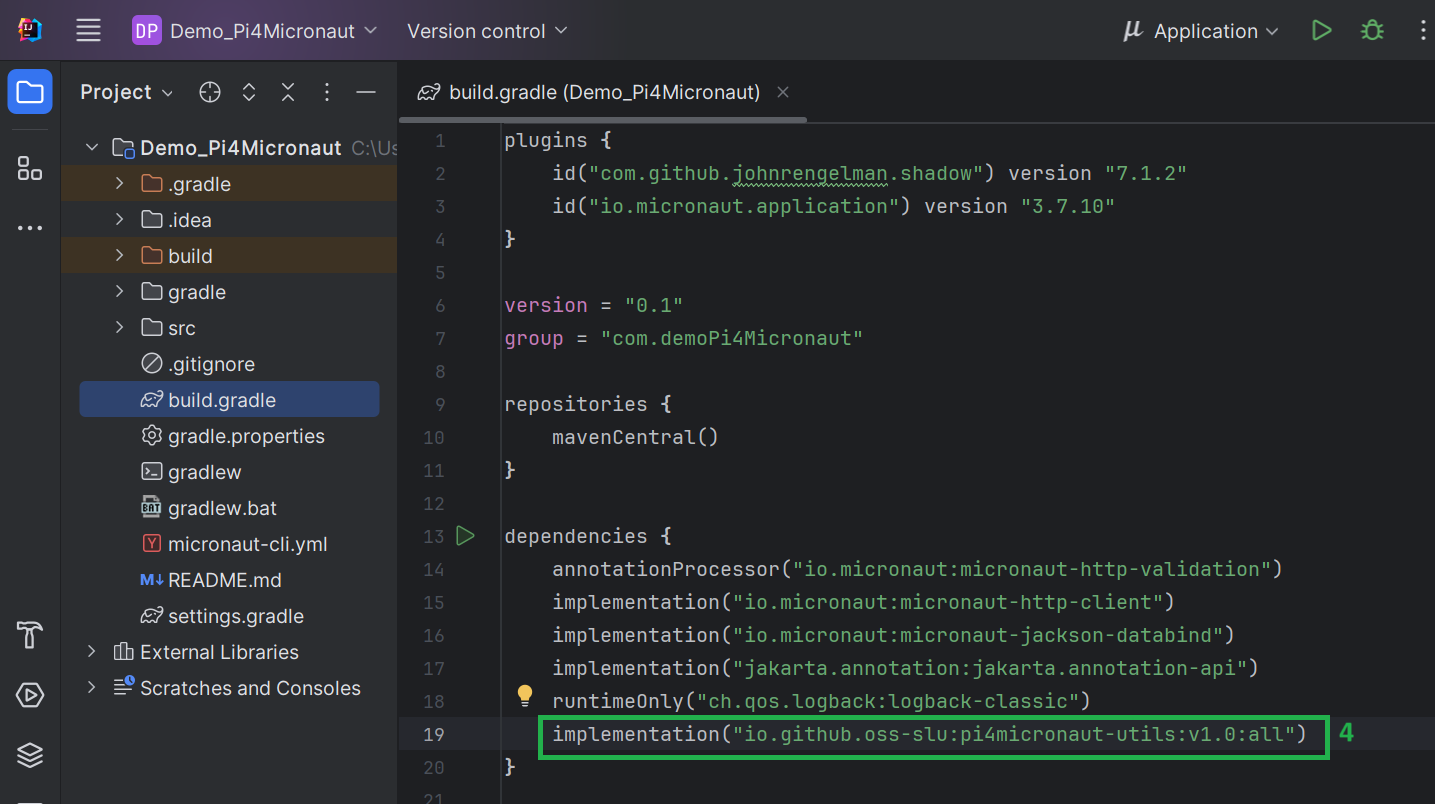
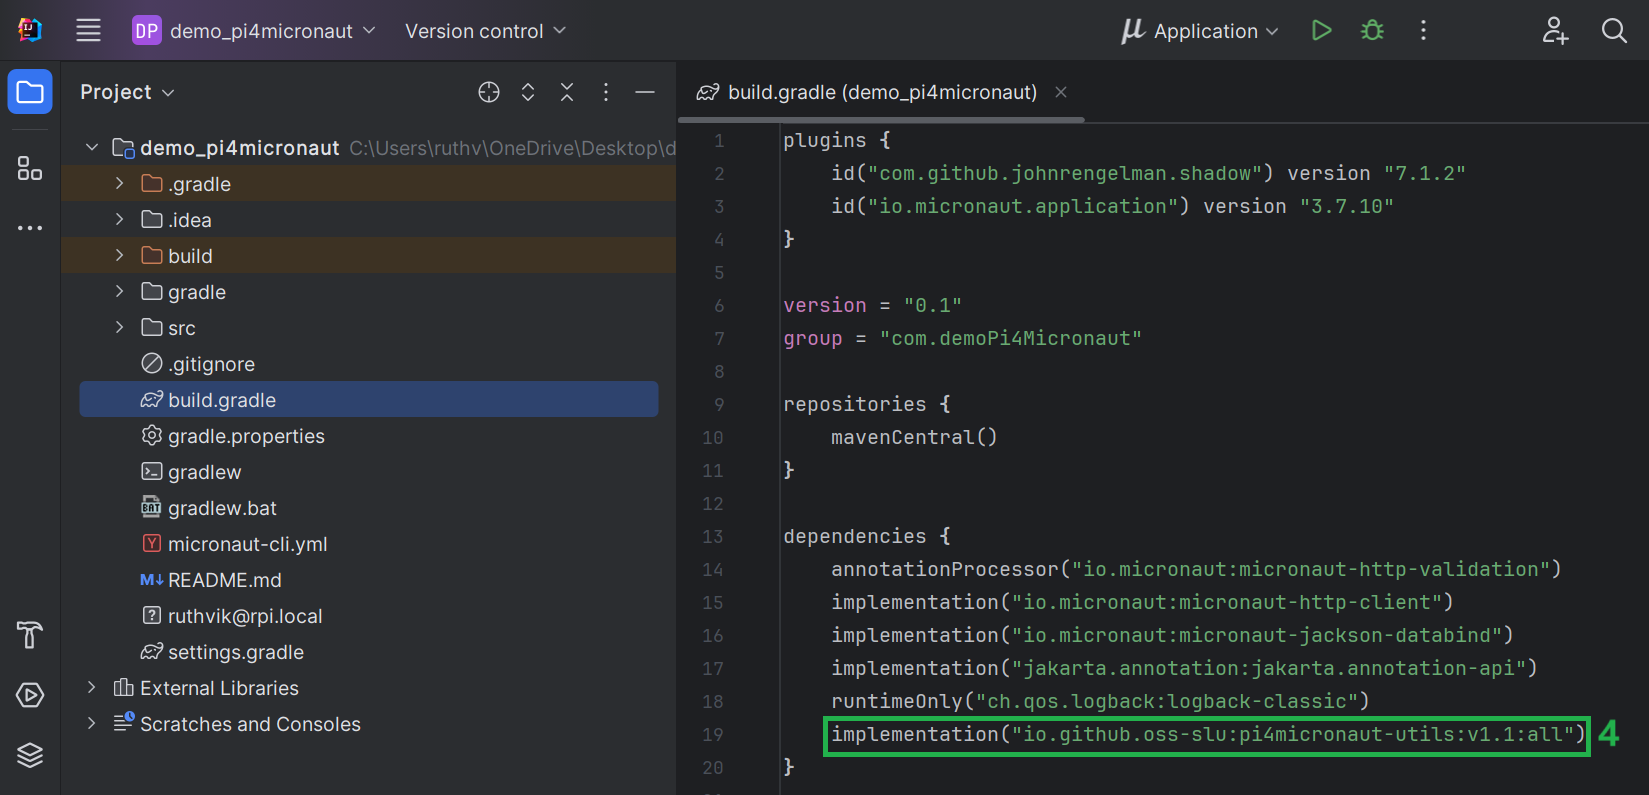
deploy: 390fa0d498738ccb48fc605e589f94afdefc2d82

diff --git a/index.html b/index.html
@@ -418,6 +418,7 @@ pre.rouge .nv, pre.rouge .vc, pre.rouge .vg, pre.rouge .vi, pre.rouge .vm {
 <ul class="sectlevel3">
 <li><a href="#_remote_monitoring_check_in_system">1.3.1. Remote Monitoring Check-In System</a></li>
 <li><a href="#_home_automation">1.3.2. Home Automation</a></li>
+<li><a href="#_lab_automation">1.3.3. Lab Automation</a></li>
 </ul>
 </li>
 </ul>
@@ -432,7 +433,7 @@ pre.rouge .nv, pre.rouge .vc, pre.rouge .vg, pre.rouge .vi, pre.rouge .vm {
 <ul class="sectlevel2">
 <li><a href="#_communicating_with_a_hardware_component">4.1. Communicating with a Hardware Component</a>
 <ul class="sectlevel3">
-<li><a href="#_yaml_configuration_workflow">4.1.1. YAML Configuration Workflow:</a></li>
+<li><a href="#_yaml_configuration_workflow">4.1.1. YAML Configuration Workflow</a></li>
 <li><a href="#_digital_input">4.1.2. Digital Input</a></li>
 <li><a href="#_digital_output">4.1.3. Digital Output</a></li>
 <li><a href="#_multipin_configurations">4.1.4. MultiPin Configurations</a></li>
@@ -492,6 +493,9 @@ pre.rouge .nv, pre.rouge .vc, pre.rouge .vg, pre.rouge .vi, pre.rouge .vm {
 <p>Pi4Micronaut is an Open Source Java library which utilizes the Micronaut Framework and Pi4J to streamline the process of creating custom IoT applications that require hardware connectivity to Raspberry Pi&#8217;s.</p>
 </div>
 <div class="paragraph">
+<p><strong>Note:</strong> Pi4Micronaut doesn&#8217;t work with the latest Raspberry Pi 5 because of its whole new architecture. Pi4J and pigpio libraries doesn&#8217;t provide support for Pi 5 yet. Look out for the latest version of Pi4J to work with Pi5&#8217;s in the future.</p>
+</div>
+<div class="paragraph">
 <p>By reading through our documentation, you will learn how to implement our library into your application.</p>
 </div>
 <div class="sect2">
@@ -535,7 +539,7 @@ with Pi4Micronaut. As a demo, this will include the configuration and sample cod
 <p>Add the Pi4Micronaut dependency to the list.</p>
 <div class="listingblock">
 <div class="content">
-<pre class="rouge highlight"><code data-lang="gradle"><span class="n">implementation</span><span class="o">(</span><span class="s2">"io.github.oss-slu:pi4micronaut-utils:v1.0:all"</span><span class="o">)</span></code></pre>
+<pre class="rouge highlight"><code data-lang="gradle"><span class="n">implementation</span><span class="o">(</span><span class="s2">"io.github.oss-slu:pi4micronaut-utils:v1.1:all"</span><span class="o">)</span></code></pre>
 </div>
 </div>
 <div class="paragraph">
@@ -878,6 +882,12 @@ For more information on the LED setup guide, see our documentation <a href="http
 <p><a href="https://github.com/oss-slu/Pi4Micronaut/tree/Home_Automation" class="bare">https://github.com/oss-slu/Pi4Micronaut/tree/Home_Automation</a></p>
 </div>
 </div>
+<div class="sect3">
+<h4 id="_lab_automation"><a class="anchor" href="#_lab_automation"></a>1.3.3. Lab Automation</h4>
+<div class="paragraph">
+<p><a href="https://github.com/oss-slu/Pi4Micronaut/tree/Lab_Automation" class="bare">https://github.com/oss-slu/Pi4Micronaut/tree/Lab_Automation</a></p>
+</div>
+</div>
 </div>
 </div>
 </div>
@@ -933,6 +943,15 @@ For more information on the LED setup guide, see our documentation <a href="http
 </li>
 <li>
 <p>Ultrasonic Sensor</p>
+</li>
+<li>
+<p>Servo Motor</p>
+</li>
+<li>
+<p>Tilt Switch</p>
+</li>
+<li>
+<p>Micro Switch</p>
 </li>
 </ul>
 </div>
@@ -1256,7 +1275,7 @@ which determines how the circuit is created by utilizing the I2C pins of the GPI
 If a user wants to implement multiple hardware components then the configuration should be defined in the snake yml structure.</p>
 </div>
 <div class="sect3">
-<h4 id="_yaml_configuration_workflow"><a class="anchor" href="#_yaml_configuration_workflow"></a>4.1.1. YAML Configuration Workflow:</h4>
+<h4 id="_yaml_configuration_workflow"><a class="anchor" href="#_yaml_configuration_workflow"></a>4.1.1. YAML Configuration Workflow</h4>
 <div class="ulist">
 <ul>
 <li>
@@ -3463,7 +3482,7 @@ for more details.</p>
 <div class="sect4">
 <h5 id="_overview_9"><a class="anchor" href="#_overview_9"></a>Overview</h5>
 <div class="paragraph">
-<p>This section provides details of a tilt switch sensor implementation, including its circuit diagram,
+<p>This section provides details of a tilt switch implementation, including its circuit diagram,
 required hardware components, assembly instructions, and functionality.</p>
 </div>
 </div>
@@ -3691,7 +3710,7 @@ for more details.</p>
 <div class="sect4">
 <h5 id="_overview_10"><a class="anchor" href="#_overview_10"></a>Overview</h5>
 <div class="paragraph">
-<p>This section provides details of a Micro Switch sensor implementation, including its circuit diagram, schematic diagram,
+<p>This section provides details of a Micro Switch implementation, including its circuit diagram, schematic diagram,
 required hardware components, assembly instructions, and functionality.</p>
 </div>
 </div>
@@ -5553,7 +5572,7 @@ To produce sound, a passive buzzer needs an external PWM signal supplied by Rasp
 <div id="footer">
 <div id="footer-text">
 Version v1.1<br>
-Last updated 2024-05-09 18:23:59 UTC
+Last updated 2024-05-09 19:18:03 UTC
 </div>
 </div>
 </body>

diff --git a/introduction.html b/introduction.html
@@ -221,6 +221,9 @@ th {
 <p>Pi4Micronaut is an Open Source Java library which utilizes the Micronaut Framework and Pi4J to streamline the process of creating custom IoT applications that require hardware connectivity to Raspberry Pi&#8217;s.</p>
 </div>
 <div class="paragraph">
+<p><strong>Note:</strong> Pi4Micronaut doesn&#8217;t work with the latest Raspberry Pi 5 because of its whole new architecture. Pi4J and pigpio libraries doesn&#8217;t provide support for Pi 5 yet. Look out for the latest version of Pi4J to work with Pi5&#8217;s in the future.</p>
+</div>
+<div class="paragraph">
 <p>By reading through our documentation, you will learn how to implement our library into your application.</p>
 </div>
 </div>
@@ -229,7 +232,7 @@ th {
 <div id="footer">
 <div id="footer-text">
 Version v1.1<br>
-Last updated 2024-05-09 18:23:59 UTC
+Last updated 2024-05-09 19:18:03 UTC
 </div>
 </div>
 </body>

diff --git a/Introduction/howToUsePi4Micronaut.html b/Introduction/howToUsePi4Micronaut.html
@@ -249,7 +249,7 @@ with Pi4Micronaut. As a demo, this will include the configuration and sample cod
 <p>Add the Pi4Micronaut dependency to the list.</p>
 <div class="listingblock">
 <div class="content">
-<pre class="highlight"><code class="language-gradle" data-lang="gradle">implementation("io.github.oss-slu:pi4micronaut-utils:v1.0:all")</code></pre>
+<pre class="highlight"><code class="language-gradle" data-lang="gradle">implementation("io.github.oss-slu:pi4micronaut-utils:v1.1:all")</code></pre>
 </div>
 </div>
 <div class="paragraph">
@@ -323,7 +323,7 @@ For more information on the LED setup guide, see our documentation <a href="http
 <div id="footer">
 <div id="footer-text">
 Version v1.1<br>
-Last updated 2024-05-09 18:23:59 UTC
+Last updated 2024-05-09 19:18:03 UTC
 </div>
 </div>
 </body>

diff --git a/components/commun_WithHardware.html b/components/commun_WithHardware.html
@@ -226,7 +226,7 @@ which determines how the circuit is created by utilizing the I2C pins of the GPI
 If a user wants to implement multiple hardware components then the configuration should be defined in the snake yml structure.</p>
 </div>
 <div class="sect3">
-<h4 id="_yaml_configuration_workflow">YAML Configuration Workflow:</h4>
+<h4 id="_yaml_configuration_workflow">YAML Configuration Workflow</h4>
 <div class="ulist">
 <ul>
 <li>
@@ -259,7 +259,7 @@ to apply the specifics listed in the yml file.</p>
 <div id="footer">
 <div id="footer-text">
 Version v1.1<br>
-Last updated 2024-05-09 18:23:59 UTC
+Last updated 2024-05-09 19:18:03 UTC
 </div>
 </div>
 </body>

diff --git a/components/inputComponents/microSwitch.html b/components/inputComponents/microSwitch.html
@@ -216,7 +216,7 @@ th {
 <div class="sect4">
 <h5 id="_overview">Overview</h5>
 <div class="paragraph">
-<p>This section provides details of a Micro Switch sensor implementation, including its circuit diagram, schematic diagram,
+<p>This section provides details of a Micro Switch implementation, including its circuit diagram, schematic diagram,
 required hardware components, assembly instructions, and functionality.</p>
 </div>
 </div>
@@ -431,7 +431,7 @@ for more details.</p>
 <div id="footer">
 <div id="footer-text">
 Version v1.1<br>
-Last updated 2024-05-09 18:23:59 UTC
+Last updated 2024-05-09 19:18:03 UTC
 </div>
 </div>
 </body>

diff --git a/Introduction/exampleApplications.html b/Introduction/exampleApplications.html
@@ -228,12 +228,18 @@ th {
 <p><a href="https://github.com/oss-slu/Pi4Micronaut/tree/Home_Automation" class="bare">https://github.com/oss-slu/Pi4Micronaut/tree/Home_Automation</a></p>
 </div>
 </div>
+<div class="sect3">
+<h4 id="_lab_automation">Lab Automation</h4>
+<div class="paragraph">
+<p><a href="https://github.com/oss-slu/Pi4Micronaut/tree/Lab_Automation" class="bare">https://github.com/oss-slu/Pi4Micronaut/tree/Lab_Automation</a></p>
+</div>
+</div>
 </div>
 </div>
 <div id="footer">
 <div id="footer-text">
 Version v1.1<br>
-Last updated 2024-05-09 18:23:59 UTC
+Last updated 2024-05-09 19:18:03 UTC
 </div>
 </div>
 </body>

diff --git a/components/inputComponents/tiltSwitch.html b/components/inputComponents/tiltSwitch.html
@@ -216,7 +216,7 @@ th {
 <div class="sect4">
 <h5 id="_overview">Overview</h5>
 <div class="paragraph">
-<p>This section provides details of a tilt switch sensor implementation, including its circuit diagram,
+<p>This section provides details of a tilt switch implementation, including its circuit diagram,
 required hardware components, assembly instructions, and functionality.</p>
 </div>
 </div>
@@ -409,7 +409,7 @@ for more details.</p>
 <div id="footer">
 <div id="footer-text">
 Version v1.1<br>
-Last updated 2024-05-09 18:23:59 UTC
+Last updated 2024-05-09 19:18:03 UTC
 </div>
 </div>
 </body>

diff --git a/Introduction/supportedHardware.html b/Introduction/supportedHardware.html
@@ -261,6 +261,15 @@ th {
 <li>
 <p>Ultrasonic Sensor</p>
 </li>
+<li>
+<p>Servo Motor</p>
+</li>
+<li>
+<p>Tilt Switch</p>
+</li>
+<li>
+<p>Micro Switch</p>
+</li>
 </ul>
 </div>
 </div>
@@ -269,7 +278,7 @@ th {
 <div id="footer">
 <div id="footer-text">
 Version v1.1<br>
-Last updated 2024-05-09 18:23:59 UTC
+Last updated 2024-05-09 19:18:03 UTC
 </div>
 </div>
 </body>

diff --git a/components/commun_WithHardware/multipinConfig.html b/components/commun_WithHardware/multipinConfig.html
@@ -293,7 +293,7 @@ Each class of multi-pin component (Digital Input, PWM), is declared slightly dif
 <div id="footer">
 <div id="footer-text">
 Version v1.1<br>
-Last updated 2024-05-09 18:23:59 UTC
+Last updated 2024-05-09 19:18:03 UTC
 </div>
 </div>
 </body>

diff --git a/components/commun_WithHardware/pwm.html b/components/commun_WithHardware/pwm.html
@@ -283,7 +283,7 @@ In our library, our Active Buzzer component uses PWM. Once fully activated at 5 
 <div id="footer">
 <div id="footer-text">
 Version v1.1<br>
-Last updated 2024-05-09 18:23:59 UTC
+Last updated 2024-05-09 19:18:03 UTC
 </div>
 </div>
 </body>

diff --git a/components/outputComponents/passivebuzzer.html b/components/outputComponents/passivebuzzer.html
@@ -412,7 +412,7 @@ To produce sound, a passive buzzer needs an external PWM signal supplied by Rasp
 <div id="footer">
 <div id="footer-text">
 Version v1.1<br>
-Last updated 2024-05-09 18:23:59 UTC
+Last updated 2024-05-09 19:18:03 UTC
 </div>
 </div>
 </body>

diff --git a/components/commun_WithHardware/i2c.html b/components/commun_WithHardware/i2c.html
@@ -272,7 +272,7 @@ It converts the signals from the Raspberry Pi into commands for the LCD.</p>
 <div id="footer">
 <div id="footer-text">
 Version v1.1<br>
-Last updated 2024-05-09 18:23:59 UTC
+Last updated 2024-05-09 19:18:03 UTC
 </div>
 </div>
 </body>
